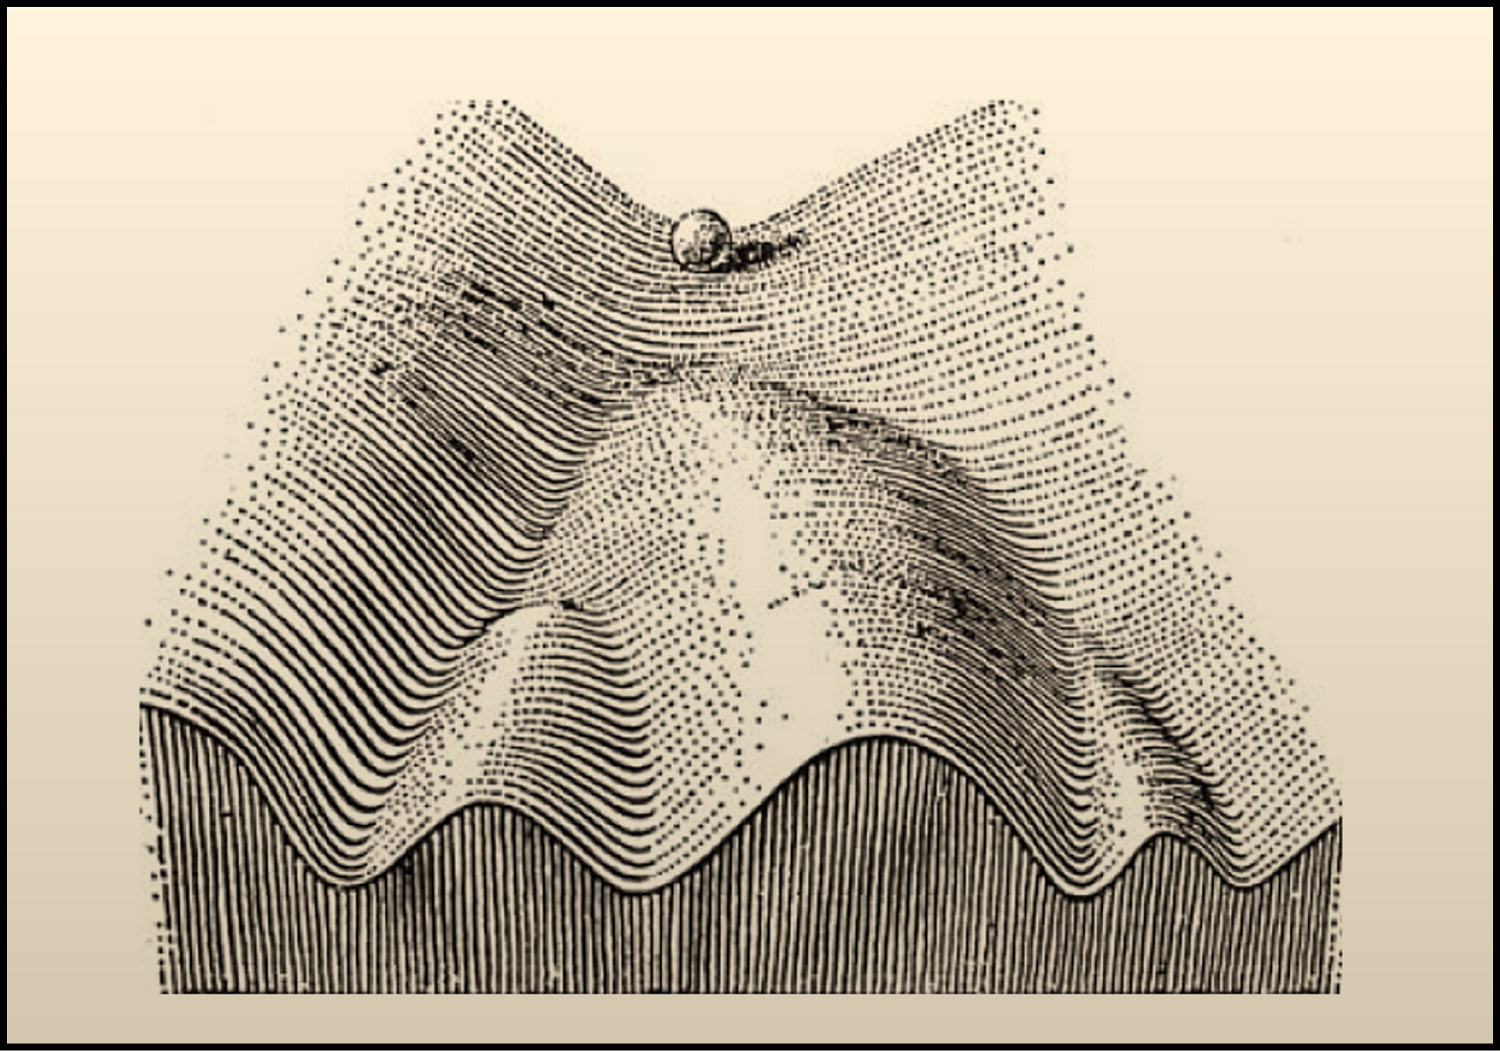
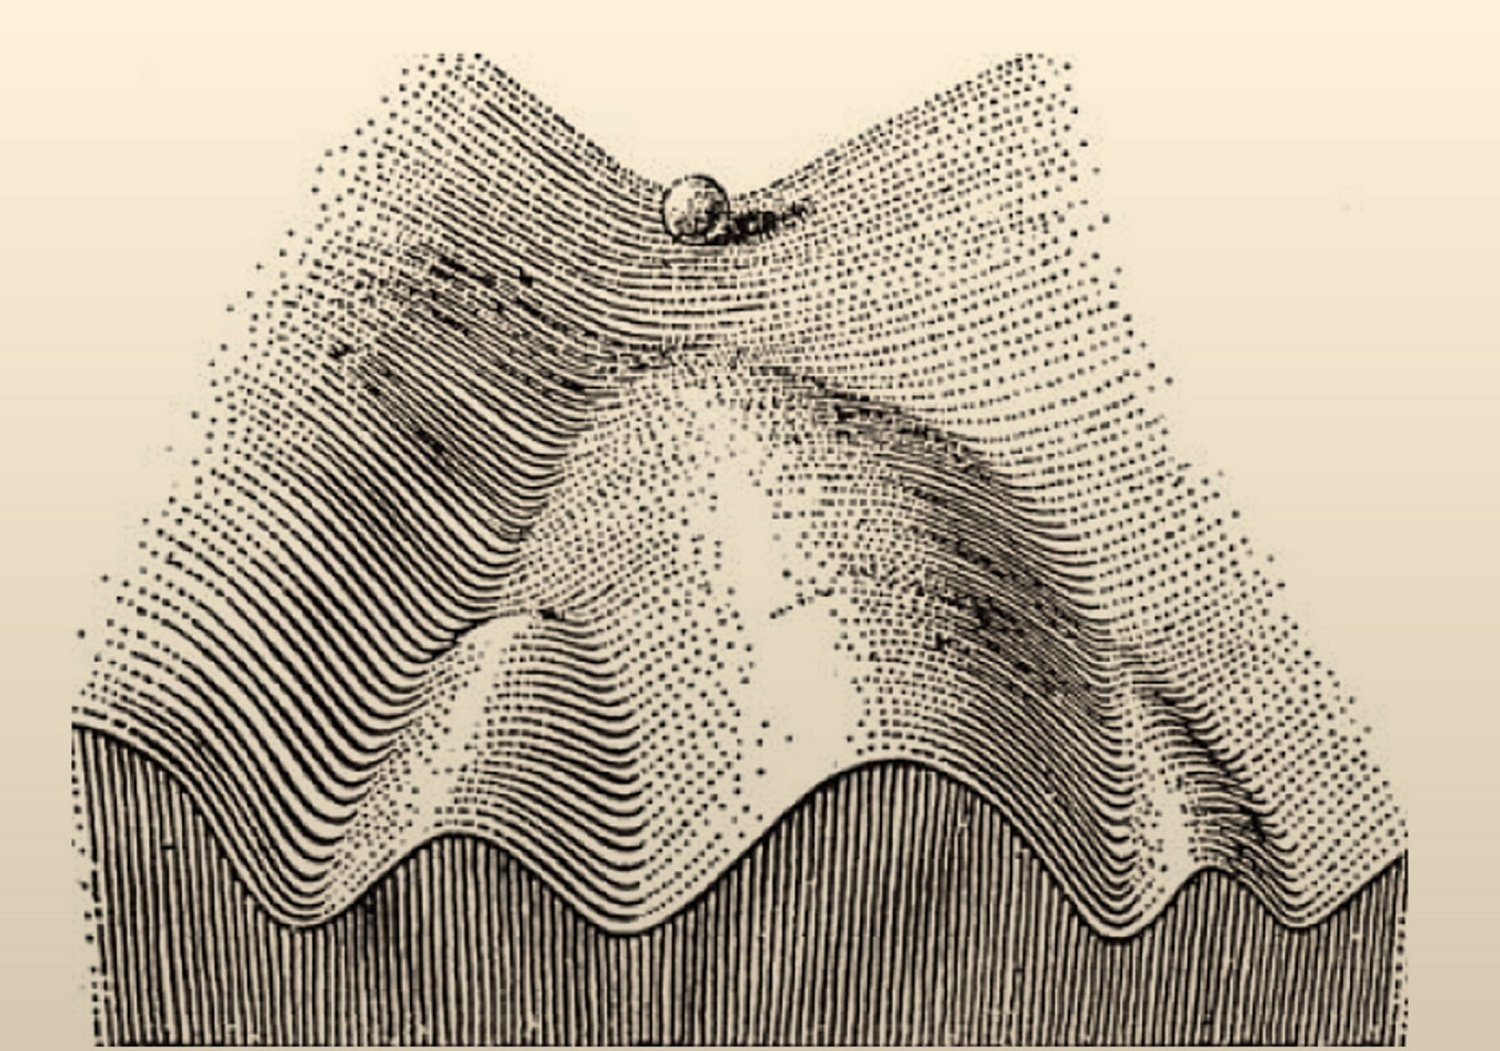
Fix /img/ paths in course front matter
- Update spattempdyn.md: hero, project, and lecture images
- Update foundevotheo.md: hero images

🤖 Generated with [Claude Code](https://claude.com/claude-code)

diff --git a/assets/css/custom.css b/assets/css/custom.css
@@ -19,12 +19,6 @@ blockquote p {
     font-style: italic;
 }
 
-/* Zoom thumbnails slightly to hide image borders */
-.writer-post-image {
-    object-fit: cover;
-    transform: scale(1.05);
-}
-
 /* Hero iframe background */
 .hero-iframe-bg {
     position: absolute;

diff --git a/_courses/spattempdyn.md b/_courses/spattempdyn.md
@@ -20,8 +20,8 @@ breadcrumb:
 description: |
   I participated in the course *"Modelling Spatial and Temporal Dynamics of Ecological Populations"* led by Johannes Wessely and Bernd Lenzner. As a colleague at the Biodiversity Centre, it was great learning from our groups senior researchers such as Johannes and Bernd, who build this course to bridge ecological theory with practical computational skills. We started by exploring what ecological models actually represent: simplified abstractions of complex biological systems. Models don't replicate every detail of reality; instead, they capture essential dynamics needed to address specific ecological questions clearly. The course encouraged us to formulate ecological hypotheses and then translate these ideas into the correct mathematical representations and finally implementing and running a toy model of our own creation.
 
-hero_image: "/img/course_std_banner.gif"
-hero_image_webp: "/img/course_std_banner.gif"
+hero_image: "/assets/images/content/course_std_banner.gif"
+hero_image_webp: "/assets/images/content/course_std_banner.gif"
 hero_classes: "bgc-4819 bg-course-std-banner d-bloc bloc-bg-texture texture-darken-strong"
 
 intro_title: "Course Highlights"
@@ -33,49 +33,49 @@ intro_content: |
 project:
   title: "Project"
   url: "/course-spattempdyn-project/"
-  image: "/img/course_std_project_map_wide.jpg"
-  image_webp: "/img/course_std_project_map_wide.webp"
+  image: "/assets/images/content/course_std_project_map_wide.jpg"
+  image_webp: "/assets/images/content/course_std_project_map_wide.webp"
   overlay_title: "Modelling Spatial and Temporal Dynamics of Animal and Plant Populations"
 
 lectures:
   - title: "Lecture 1"
     url: "/course-spattempdyn-lecture1/"
     subtitle: "What is a model?"
-    image: "/img/course_std_lec1.jpg"
-    image_webp: "/img/course_std_lec1.webp"
+    image: "/assets/images/content/course_std_lec1.jpg"
+    image_webp: "/assets/images/content/course_std_lec1.webp"
   - title: "Lecture 2"
     url: "/course-spattempdyn-lecture2/"
     subtitle: "Single Species Models"
-    image: "/img/course_std_lec2.jpg"
-    image_webp: "/img/course_std_lec2.webp"
+    image: "/assets/images/content/course_std_lec2.jpg"
+    image_webp: "/assets/images/content/course_std_lec2.webp"
   - title: "Lecture 3"
     url: "/course-spattempdyn-lecture3/"
     subtitle: "Density-Dependent Growth"
-    image: "/img/course_std_lec3.jpg"
-    image_webp: "/img/course_std_lec3.webp"
+    image: "/assets/images/content/course_std_lec3.jpg"
+    image_webp: "/assets/images/content/course_std_lec3.webp"
   - title: "Lecture 4"
     url: "/course-spattempdyn-lecture4/"
     subtitle: "Predator-prey Models"
-    image: "/img/course_std_lec4.jpg"
-    image_webp: "/img/course_std_lec4.webp"
+    image: "/assets/images/content/course_std_lec4.jpg"
+    image_webp: "/assets/images/content/course_std_lec4.webp"
   - title: "Lecture 5"
     url: "/course-spattempdyn-lecture5/"
     subtitle: "Class-structured Population Models"
-    image: "/img/course_std_lec5.jpg"
-    image_webp: "/img/course_std_lec5.webp"
+    image: "/assets/images/content/course_std_lec5.jpg"
+    image_webp: "/assets/images/content/course_std_lec5.webp"
   - title: "Lecture 6"
     url: "/course-spattempdyn-lecture6/"
     subtitle: "Random Walks"
-    image: "/img/course_std_lec6.jpg"
-    image_webp: "/img/course_std_lec6.webp"
+    image: "/assets/images/content/course_std_lec6.jpg"
+    image_webp: "/assets/images/content/course_std_lec6.webp"
   - title: "Lecture 7"
     url: "/course-spattempdyn-lecture7/"
     subtitle: "Random Walks for Population Movement"
-    image: "/img/course_std_lec7.jpg"
-    image_webp: "/img/course_std_lec7.webp"
+    image: "/assets/images/content/course_std_lec7.jpg"
+    image_webp: "/assets/images/content/course_std_lec7.webp"
   - title: "Lecture 8"
     url: "/course-spattempdyn-lecture8/"
     subtitle: "Population Growth and Dispersal"
-    image: "/img/course_std_lec8.jpg"
-    image_webp: "/img/course_std_lec8.webp"
+    image: "/assets/images/content/course_std_lec8.jpg"
+    image_webp: "/assets/images/content/course_std_lec8.webp"
 ---

diff --git a/_courses/foundevotheo.md b/_courses/foundevotheo.md
@@ -19,8 +19,8 @@ breadcrumb:
 description: |
   This lecture series, taught by Sonia Kleindorfer, explored Darwin's *On the Origin of Species* chapter by chapter, combining historical context with modern evolutionary insights. Over five weeks, we met every Tuesday to examine the core arguments presented by Darwin. The course was grounded in Darwin's original text, but framed through the lens of current evolutionary theory and recent empirical studies. In particular, she emphasized how Darwin's reasoning foreshadowed many modern developments in population genetics, phylogenetics, and developmental biology.
 
-hero_image: "/img/bg.jpg"
-hero_image_webp: "/img/bg.webp"
+hero_image: "/assets/images/content/bg.jpg"
+hero_image_webp: "/assets/images/content/bg.webp"
 hero_classes: "bgc-4819 bg-bg d-bloc bloc-bg-texture texture-darken-strong"
 
 intro_title: "Course Highlights"
